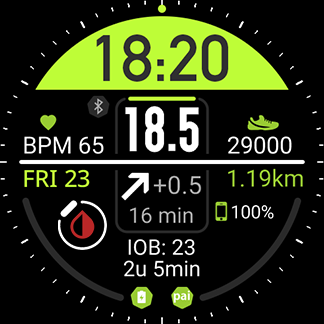
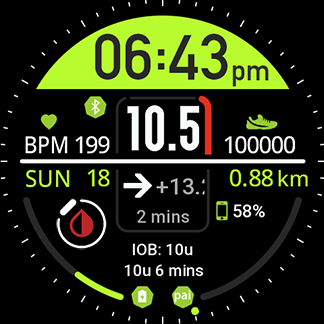
update preview, disable tests, small styles adjustments

diff --git a/watchface/gtr-3-pro/styles.js b/watchface/gtr-3-pro/styles.js
@@ -40,11 +40,11 @@ export const DIGITAL_TIME_MINUTES = {
 };
 
 export const TIME_AM_PM = {
-    am_x: px(342),
+    am_x: px(344),
     am_y: px(98),
     am_sc_path: img('bigNum/am.png'),
     am_en_path: img('bigNum/am.png'),
-    pm_x: px(342),
+    pm_x: px(344),
     pm_y: px(98),
     pm_sc_path: img('bigNum/pm.png'),
     pm_en_path: img('bigNum/pm.png'),
@@ -127,6 +127,7 @@ export const BATTERY_ARC = {
     w: px(444),
     h: px(444),
     start_angle: -253,
+    end_angle: -196,
     color: Colors.accent,
     line_width: px(9),
     show_level: hmUI.show_level.ONLY_NORMAL,
@@ -138,6 +139,7 @@ export const PAI_ARC = {
     w: px(444),
     h: px(444),
     start_angle: 73,
+    end_angle: 16,
     color: Colors.accent,
     line_width: px(9),
     show_level: hmUI.show_level.ONLY_NORMAL,
@@ -182,9 +184,9 @@ export const BG_TIME_TEXT = {
 };
 
 export const BG_DELTA_TEXT = {
-    x: px(225),
+    x: px(226),
     y: px(249),
-    w: px(77),
+    w: px(76),
     h: px(40),
     color: Colors.defaultTransparent,
     text_size: px(34),
@@ -195,7 +197,7 @@ export const BG_DELTA_TEXT = {
 
 export const BG_TREND_IMAGE = {
     src: 'watchdrip/arrows/None.png',
-    x: px(183),
+    x: px(181),
     y: px(253),
     w: px(46),
     h: px(48),
@@ -219,21 +221,21 @@ export const BG_STALE_IMG = {
 
 export const IOB_TEXT = {
     x: px(112),
-    y: px(353),
+    y: px(351),
     w: px(256),
-    h: px(30),
+    h: px(34),
     color: Colors.white,
     text_size: px(24),
     align_h: hmUI.align.CENTER_H,
-    align_v: hmUI.align.CENTER_V,
+    align_v: hmUI.align.TOP,
     text_style: hmUI.text_style.NONE,
 };
 
 export const TREATMENT_TEXT = {
     x: px(135),
-    y: px(384),
+    y: px(382),
     w: px(214),
-    h: px(30),
+    h: px(34),
     color: Colors.white,
     text_size: px(24),
     align_h: hmUI.align.CENTER_H,
@@ -245,9 +247,9 @@ export const PHONE_BATTERY_TEXT = {
     x: px(343),
     y: px(292),
     w: px(80),
-    h: px(28),
+    h: px(36),
     color: Colors.white,
-    text_size: px(24),
+    text_size: px(26),
     align_h: hmUI.align.LEFT,
     align_v: hmUI.align.TOP,
     text_style: hmUI.text_style.NONE,

diff --git a/utils/watchdrip/model/bgData.js b/utils/watchdrip/model/bgData.js
@@ -1,4 +1,5 @@
 import {TEST_DATA} from "../../config/constants";
+import {MINUTE_IN_MS} from "../../../shared/date";
 
 export class BgData {
     constructor(val, delta, trend, isHigh, isLow, time, isStale) {
@@ -24,7 +25,7 @@ export class BgData {
 
     static createEmpty() {
         if (TEST_DATA){
-            return new BgData("10.5", "+13.2", "Flat", true, false, "1668975954793", false);
+            return new BgData("10.5", "+13.2", "Flat", true, false, Date.now()-2*MINUTE_IN_MS, false);
         }
         return new BgData("", "", "", false, false, null, true);
     }

diff --git a/utils/watchdrip/model/treatmentData.js b/utils/watchdrip/model/treatmentData.js
@@ -1,4 +1,5 @@
 import {TEST_DATA} from "../../config/constants";
+import {MINUTE_IN_MS} from "../../../shared/date";
 
 export class TreatmentData {
     constructor(insulin, carbs, time, predictIOB, predictWPB) {
@@ -40,7 +41,7 @@ export class TreatmentData {
 
     static createEmpty() {
         if (TEST_DATA){
-            return new TreatmentData("10", "20", 1668975954793, "10u" ,"20u");
+            return new TreatmentData("10", "20", Date.now()-6*MINUTE_IN_MS, "10u" ,"20u");
         }
         return new TreatmentData("", "", null, "", "");
     }

diff --git a/watchface/gtr-3-pro/index.js b/watchface/gtr-3-pro/index.js
@@ -212,9 +212,9 @@ WatchFace({
         });
 
         if (TEST_DATA){
-            bgStatusLow.setProperty(hmUI.prop.VISIBLE, true);
-            bgStatusOk.setProperty(hmUI.prop.VISIBLE, true);
-            bgStatusHight.setProperty(hmUI.prop.VISIBLE, true);
+            // bgStatusLow.setProperty(hmUI.prop.VISIBLE, true);
+            // bgStatusOk.setProperty(hmUI.prop.VISIBLE, true);
+            // bgStatusHight.setProperty(hmUI.prop.VISIBLE, true);
             bgValTimeTextWidget.setProperty(hmUI.prop.VISIBLE, true);
         }
     },

diff --git a/utils/config/constants.js b/utils/config/constants.js
@@ -26,4 +26,4 @@ export const Colors = {
 };
 
 /*set to true on wf creation*/
-export const TEST_DATA = true;
+export const TEST_DATA = false;
